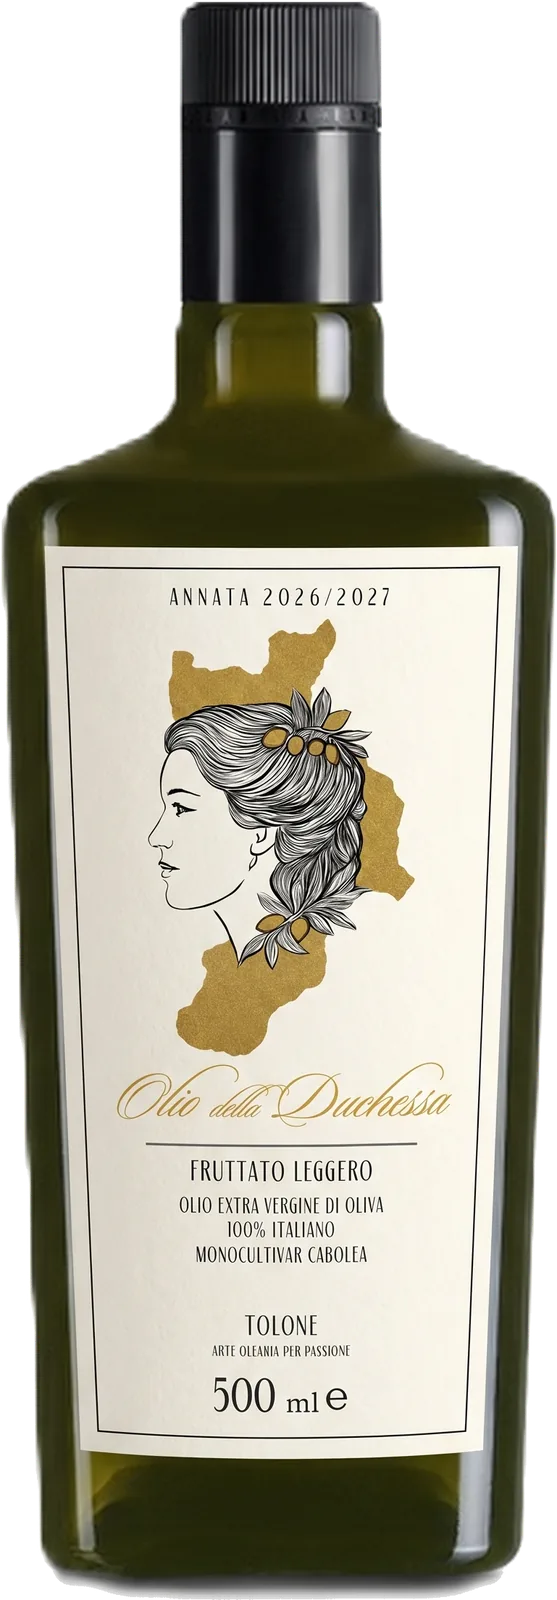
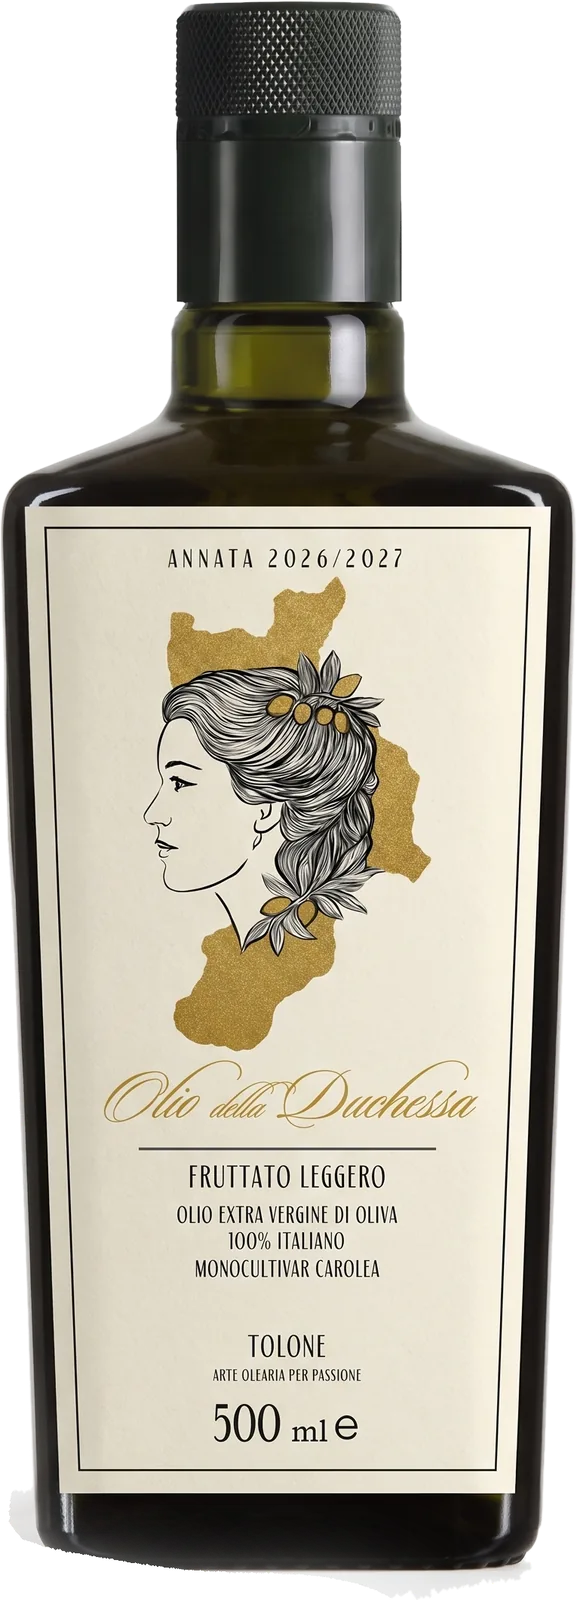
duchessa: bottiglia con l'etichetta corretta (Carolea, olearia)
Claude-Session: https://claude.ai/code/session_01R392wez8gQZ7cPTaiCGhb7

diff --git a/duchessa-anteprima/prodotto.html b/duchessa-anteprima/prodotto.html
@@ -77,7 +77,7 @@
     </ol>
     <div class="scheda">
       <div class="scheda-bottiglia">
-        <img class="foto" src="img/pagine/prodotto/bottiglia-olio-duchessa-500ml.webp?v=1792165182" width="557" height="1600" alt="Bottiglia de L&#039;Olio della Duchessa, 500 ml" fetchpriority="high">      </div>
+        <img class="foto" src="img/pagine/prodotto/bottiglia-olio-duchessa-500ml.webp?v=1792166155" width="577" height="1600" alt="Bottiglia de L&#039;Olio della Duchessa, 500 ml" fetchpriority="high">      </div>
       <div>
         <p class="occhiello">Il Prodotto</p>
         <h1>Olio Extra Vergine d'Oliva</h1>
@@ -241,7 +241,7 @@
           <p class="testo-grande">Non è soltanto un condimento. È il gesto finale, quello che arriva quando tutto il resto è pronto.</p>
           <div class="formati">
             <div class="formato">
-              <img class="foto" src="img/pagine/prodotto/bottiglia-olio-duchessa-500ml.webp?v=1792165182" width="557" height="1600" alt="Bottiglia da 500 ml" loading="lazy" decoding="async">              <h3>Bottiglia</h3>
+              <img class="foto" src="img/pagine/prodotto/bottiglia-olio-duchessa-500ml.webp?v=1792166155" width="577" height="1600" alt="Bottiglia da 500 ml" loading="lazy" decoding="async">              <h3>Bottiglia</h3>
               <p>500 ml</p>
             </div>
             <div class="formato">

diff --git a/duchessa-anteprima/contatti.html b/duchessa-anteprima/contatti.html
@@ -130,7 +130,7 @@
       <p>Scrivici indicando formato e quantità: ti risponderemo con disponibilità e modalità di acquisto.</p>
       <div class="formati">
         <div class="formato">
-          <img class="foto" src="img/pagine/prodotto/bottiglia-olio-duchessa-500ml.webp?v=1792165182" width="557" height="1600" alt="Bottiglia da 500 ml" loading="lazy" decoding="async">          <h3>Bottiglia</h3><p>500 ml</p>
+          <img class="foto" src="img/pagine/prodotto/bottiglia-olio-duchessa-500ml.webp?v=1792166155" width="577" height="1600" alt="Bottiglia da 500 ml" loading="lazy" decoding="async">          <h3>Bottiglia</h3><p>500 ml</p>
         </div>
         <div class="formato">
           <img class="foto" src="img/pagine/prodotto/latta-olio-duchessa-5l.webp?v=1791324785" width="827" height="1600" alt="Latta da 5 litri" loading="lazy" decoding="async">          <h3>Latta</h3><p>5 litri</p>

diff --git a/duchessa-anteprima/index.html b/duchessa-anteprima/index.html
@@ -112,7 +112,7 @@
   <section class="vetrina">
     <div class="contenitore vetrina-griglia">
       <div class="vetrina-bottiglia" data-appare>
-        <img class="foto" src="img/pagine/prodotto/bottiglia-olio-duchessa-500ml.webp?v=1792165182" width="557" height="1600" alt="Bottiglia de L&#039;Olio della Duchessa, 500 ml" loading="lazy" decoding="async">      </div>
+        <img class="foto" src="img/pagine/prodotto/bottiglia-olio-duchessa-500ml.webp?v=1792166155" width="577" height="1600" alt="Bottiglia de L&#039;Olio della Duchessa, 500 ml" loading="lazy" decoding="async">      </div>
       <div class="vetrina-testo" data-appare>
         <h2>L'Olio della Duchessa</h2>
         <p class="frase">Monocultivar Carolea</p>

diff --git a/duchessa-anteprima/processo.html b/duchessa-anteprima/processo.html
@@ -141,7 +141,7 @@
 
       <li class="passo" id="imbottigliamento" data-appare>
         <div class="passo-foto passo-bottiglia">
-          <img class="foto" src="img/pagine/prodotto/bottiglia-olio-duchessa-500ml.webp?v=1792165182" width="557" height="1600" alt="La bottiglia de L&#039;Olio della Duchessa" loading="lazy" decoding="async">        </div>
+          <img class="foto" src="img/pagine/prodotto/bottiglia-olio-duchessa-500ml.webp?v=1792166155" width="577" height="1600" alt="La bottiglia de L&#039;Olio della Duchessa" loading="lazy" decoding="async">        </div>
         <div>
           <span class="passo-numero" aria-hidden="true">05</span>
           <h2>L'imbottigliamento</h2>

diff --git a/duchessa/prodotto.php b/duchessa/prodotto.php
@@ -12,7 +12,7 @@ include 'partials/header.php';
     </ol>
     <div class="scheda">
       <div class="scheda-bottiglia">
-        <?= foto('img/pagine/prodotto/bottiglia-olio-duchessa-500ml.webp', "Bottiglia de L'Olio della Duchessa, 500 ml", 557, 1600, 'Bottiglia isolata, luce naturale', ['subito' => true]) ?>
+        <?= foto('img/pagine/prodotto/bottiglia-olio-duchessa-500ml.webp', "Bottiglia de L'Olio della Duchessa, 500 ml", 577, 1600, 'Bottiglia isolata, luce naturale', ['subito' => true]) ?>
       </div>
       <div>
         <p class="occhiello">Il Prodotto</p>
@@ -181,7 +181,7 @@ include 'partials/header.php';
           <p class="testo-grande">Non è soltanto un condimento. È il gesto finale, quello che arriva quando tutto il resto è pronto.</p>
           <div class="formati">
             <div class="formato">
-              <?= foto('img/pagine/prodotto/bottiglia-olio-duchessa-500ml.webp', 'Bottiglia da 500 ml', 557, 1600, 'Bottiglia 500 ml') ?>
+              <?= foto('img/pagine/prodotto/bottiglia-olio-duchessa-500ml.webp', 'Bottiglia da 500 ml', 577, 1600, 'Bottiglia 500 ml') ?>
               <h3>Bottiglia</h3>
               <p>500 ml</p>
             </div>

diff --git a/duchessa/index.php b/duchessa/index.php
@@ -30,7 +30,7 @@ include 'partials/header.php';
   <section class="vetrina">
     <div class="contenitore vetrina-griglia">
       <div class="vetrina-bottiglia" data-appare>
-        <?= foto('img/pagine/prodotto/bottiglia-olio-duchessa-500ml.webp', "Bottiglia de L'Olio della Duchessa, 500 ml", 557, 1600, 'Bottiglia, estrema semplicità') ?>
+        <?= foto('img/pagine/prodotto/bottiglia-olio-duchessa-500ml.webp', "Bottiglia de L'Olio della Duchessa, 500 ml", 577, 1600, 'Bottiglia, estrema semplicità') ?>
       </div>
       <div class="vetrina-testo" data-appare>
         <h2>L'Olio della Duchessa</h2>

diff --git a/duchessa/contatti.php b/duchessa/contatti.php
@@ -105,7 +105,7 @@ include 'partials/header.php';
       <p>Scrivici indicando formato e quantità: ti risponderemo con disponibilità e modalità di acquisto.</p>
       <div class="formati">
         <div class="formato">
-          <?= foto('img/pagine/prodotto/bottiglia-olio-duchessa-500ml.webp', 'Bottiglia da 500 ml', 557, 1600, 'Bottiglia 500 ml') ?>
+          <?= foto('img/pagine/prodotto/bottiglia-olio-duchessa-500ml.webp', 'Bottiglia da 500 ml', 577, 1600, 'Bottiglia 500 ml') ?>
           <h3>Bottiglia</h3><p>500 ml</p>
         </div>
         <div class="formato">

diff --git a/duchessa/processo.php b/duchessa/processo.php
@@ -83,7 +83,7 @@ include 'partials/header.php';
 
       <li class="passo" id="imbottigliamento" data-appare>
         <div class="passo-foto passo-bottiglia">
-          <?= foto('img/pagine/prodotto/bottiglia-olio-duchessa-500ml.webp', "La bottiglia de L'Olio della Duchessa", 557, 1600, 'Bottiglia') ?>
+          <?= foto('img/pagine/prodotto/bottiglia-olio-duchessa-500ml.webp', "La bottiglia de L'Olio della Duchessa", 577, 1600, 'Bottiglia') ?>
         </div>
         <div>
           <span class="passo-numero" aria-hidden="true">05</span>
